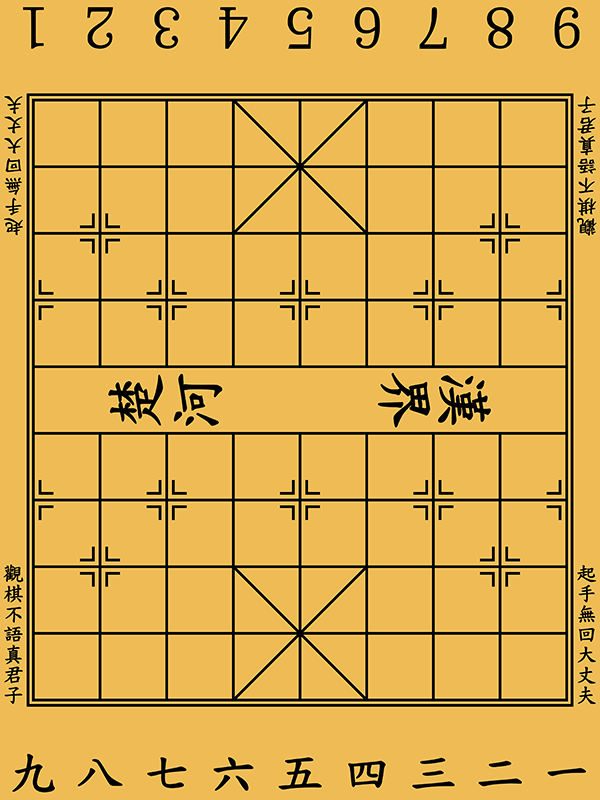
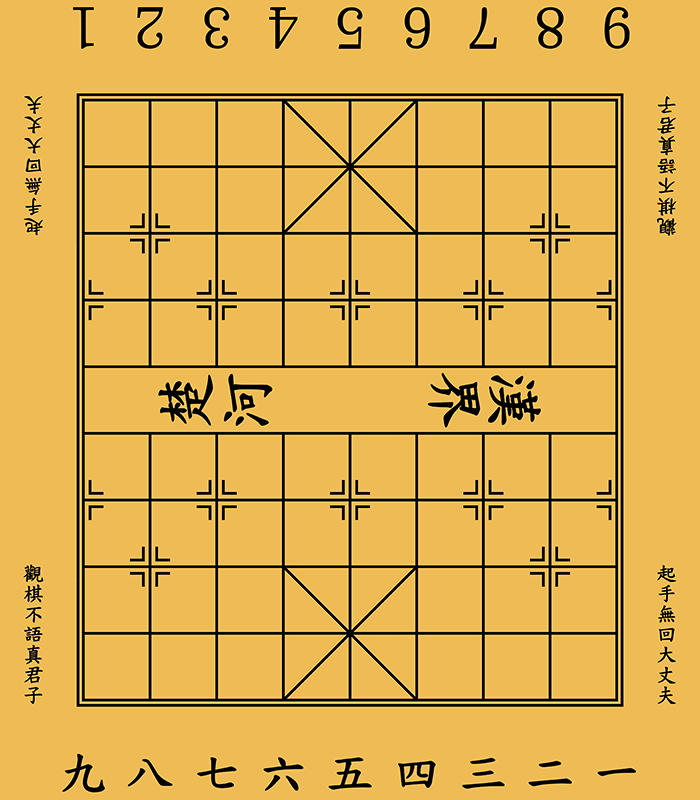
update 12/20 完善代码 可显示

diff --git a/src/Board/ChessBoard.java b/src/Board/ChessBoard.java
@@ -2,6 +2,7 @@ package Board;
 
 import Piece.*;
 import javax.imageio.ImageIO;
+import javax.swing.*;
 import java.awt.*;
 import java.awt.image.BufferedImage;
 import java.io.File;
@@ -12,6 +13,7 @@ public class ChessBoard {
 //data area
     public final static byte WIDTH = 9; //棋盘宽度
     public final static byte HIGH = 10; //棋盘高度
+
     //public final static byte PIECES_SUM = 36; //棋子总数
     private final Piece[][] pieces_map; //棋盘数组
     private final Piece[] pieces_all; //棋子容器
@@ -22,12 +24,16 @@ public class ChessBoard {
     private Piece now_select;
     private Piece aim_select;
     private BufferedImage board_image;
-
+    private BufferedImage game_image;
 //draw area
+    private final int UNIT_SIZE = 65;
     private final int WIDTH_SIZE;
     private final int HIGH_SIZE;
+    private final int OFFSET_W;
+    private final int OFFSET_H;
 
-
+    JFrame game_frame = new JFrame("象棋");
+    DrawBoard draw_board = new DrawBoard();
 
     private ChessBoard(){
         try {
@@ -38,6 +44,9 @@ public class ChessBoard {
         }
         WIDTH_SIZE=board_image.getWidth();
         HIGH_SIZE=board_image.getHeight();
+        OFFSET_W=(WIDTH_SIZE-WIDTH*UNIT_SIZE)/2;
+        OFFSET_H=(HIGH_SIZE-HIGH*UNIT_SIZE)/2;
+        game_image=new BufferedImage(WIDTH_SIZE,HIGH_SIZE,BufferedImage.TYPE_INT_RGB);
         //构造棋盘数组
         pieces_map = new Piece[WIDTH+1][];
         for (int i = 0; i <= WIDTH; i++) {
@@ -54,7 +63,14 @@ public class ChessBoard {
             Point temp=pieces_all[i].GetPosition();
             pieces_map[temp.x][temp.y]=pieces_all[i];
         }
+        draw_board.setPreferredSize(new Dimension(WIDTH_SIZE,HIGH_SIZE));
+        UpdateFrames();
+        game_frame.add(draw_board);
+        game_frame.pack();
+        game_frame.setDefaultCloseOperation(JFrame.EXIT_ON_CLOSE);
+        game_frame.setVisible(true);
     }
+
     private void CreatePieces(){//创建所有棋子对象
         pieces_all[0]=new NullPiece();
         pieces_all[1]=new ChessPiece(ChessPiece.P_JU_CHU,(byte) 1,new Point(1,10));
@@ -67,7 +83,7 @@ public class ChessBoard {
         pieces_all[8]=new ChessPiece(ChessPiece.P_SHI_CHU,(byte) 7,new Point(6,10));
         pieces_all[9]=new ChessPiece(ChessPiece.P_JIANG_CHU,(byte) 8,new Point(5,10));
         pieces_all[10]=new ChessPiece(ChessPiece.P_PAO_CHU,(byte) 9,new Point(2,8));
-        pieces_all[11]=new ChessPiece(ChessPiece.P_PAO_CHU,(byte) 10,new Point(7,8));
+        pieces_all[11]=new ChessPiece(ChessPiece.P_PAO_CHU,(byte) 10,new Point(8,8));
         pieces_all[12]=new ChessPiece(ChessPiece.P_ZU_CHU,(byte) 11,new Point(1,7));
         pieces_all[13]=new ChessPiece(ChessPiece.P_ZU_CHU,(byte) 12,new Point(3,7));
         pieces_all[14]=new ChessPiece(ChessPiece.P_ZU_CHU,(byte) 13,new Point(5,7));
@@ -84,7 +100,7 @@ public class ChessBoard {
         pieces_all[24]=new ChessPiece(ChessPiece.P_SHI_HAN,(byte) 7,new Point(6,1));
         pieces_all[25]=new ChessPiece(ChessPiece.P_SHUAI_HAN,(byte) 8,new Point(5,1));
         pieces_all[26]=new ChessPiece(ChessPiece.P_PAO_HAN,(byte) 9,new Point(2,3));
-        pieces_all[27]=new ChessPiece(ChessPiece.P_PAO_HAN,(byte) 10,new Point(7,3));
+        pieces_all[27]=new ChessPiece(ChessPiece.P_PAO_HAN,(byte) 10,new Point(8,3));
         pieces_all[28]=new ChessPiece(ChessPiece.P_BING_HAN,(byte) 11,new Point(1,4));
         pieces_all[29]=new ChessPiece(ChessPiece.P_BING_HAN,(byte) 12,new Point(3,4));
         pieces_all[30]=new ChessPiece(ChessPiece.P_BING_HAN,(byte) 13,new Point(5,4));
@@ -97,25 +113,48 @@ public class ChessBoard {
             me=new ChessBoard();
         return me;
     }
+
     public void DrawBoard (){
     }
+
     public void Select(Point point){
 
     }
+
     public Piece GetNow(){
         return now_select;
     }
+
     public Piece GetAim(){
         return aim_select;
     }
-    public void UpdatePieces(){
 
+    public void UpdateFrames(){
+        Graphics game_imageGraphics=game_image.getGraphics();
+        game_imageGraphics.drawImage(board_image,0,0,null);
+        for (Piece piece:pieces_all) {
+            if (piece.IsAlive()) {
+                int posX=(piece.GetPosition().x-1) * UNIT_SIZE+OFFSET_W;
+                int posY=(piece.GetPosition().y-1) * UNIT_SIZE+OFFSET_H;
+                game_imageGraphics.drawImage(piece.GetImage(),posX,posY,null);
+            }
+        }
+        draw_board.repaint();
     }
+
     public Piece GetPiece(int x,int y){
         return pieces_map[x][y];
     }
+
     public void MovePiece(){
 
     }
 
+    class DrawBoard extends JPanel{
+        @Override
+        public void paint(Graphics g) {
+            //画画板
+            g.drawImage(game_image,0,0,null);
+        }
+    }
 }

diff --git a/src/Piece/ChessPiece.java b/src/Piece/ChessPiece.java
@@ -160,7 +160,7 @@ public class ChessPiece implements Piece{
 
     @Override
     public boolean IsAlive() {
-        return false;
+        return true;
     }
 
     @Override
